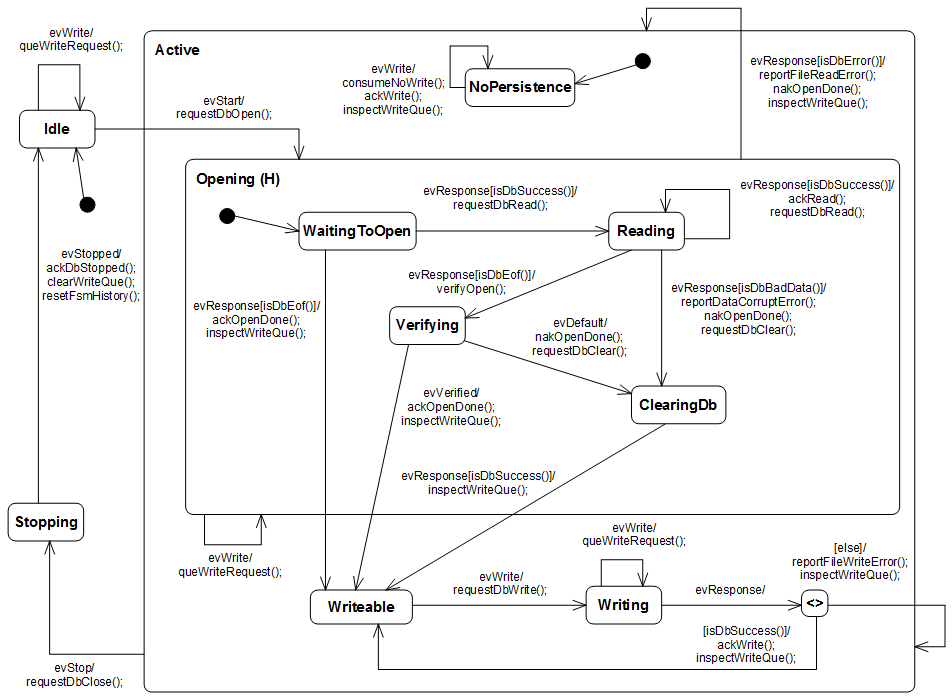
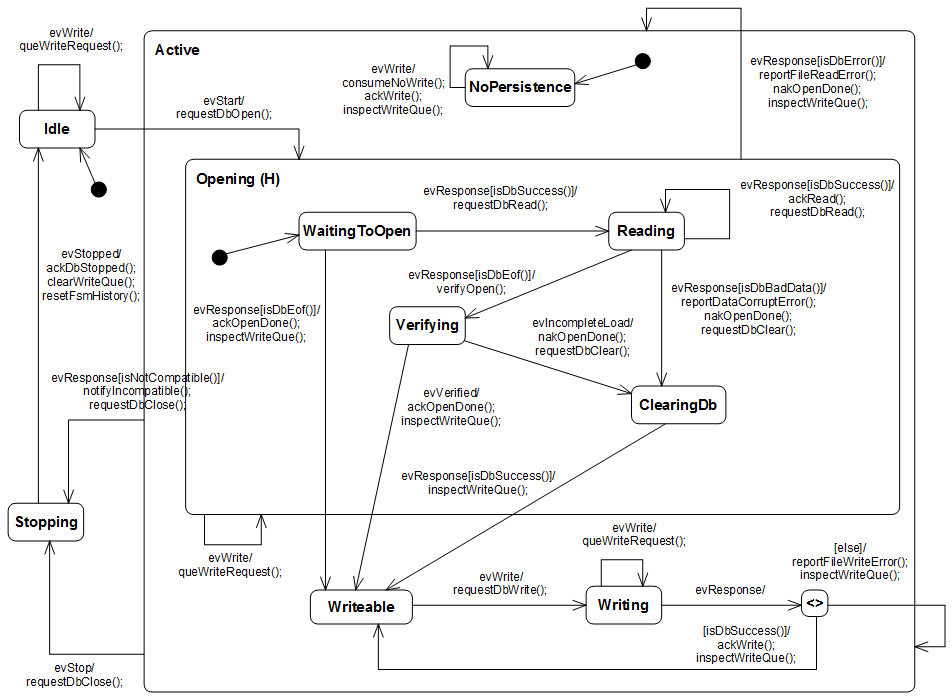
WIP - more tweaking to the Record FSM (still need unittests)

diff --git a/src/Rte/Db/Record/Fsm_.cpp b/src/Rte/Db/Record/Fsm_.cpp
@@ -39,10 +39,10 @@ namespace Rte { namespace Db { namespace Record  {
 
     /* Event names */
     const char events[]=
-        "evWrite\0evStop\0evVerified\0evResponse\0evDefault\0evStopped\0evStart\0NO_MSG\0";
+        "evWrite\0evStop\0evVerified\0evResponse\0evIncompleteLoad\0evStopped\0evStart\0NO_MSG\0";
 
     const unsigned short evt_idx[]={
-        0,8,15,26,37,47,57,65};
+        0,8,15,26,37,54,64,72};
 
     const char* Fsm::getNameByState(unsigned short state) const {
         return states+state_idx[state];
@@ -319,7 +319,7 @@ namespace Rte { namespace Db { namespace Record  {
                             break; /* end of case ClearingDb  */
 
                             case Verifying:
-                                if(msg==evDefault){
+                                if(msg==evIncompleteLoad){
                                     /* Transition from Verifying to ClearingDb */
                                     evConsumed=1;
 
@@ -445,7 +445,27 @@ namespace Rte { namespace Db { namespace Record  {
                 /* Check if event was already processed  */
                 if(evConsumed==0){
 
-                    if(msg==evStop){
+                    if(msg==evResponse){
+                        if(isNotCompatible()){
+                            /* Transition from Active to Stopping */
+                            evConsumed=1;
+                        
+                            if(stateVars.stateVarActive== Opening){
+                                
+                            }
+
+                            /* Action code for transition  */
+                            notifyIncompatible();
+                            requestDbClose();
+
+
+                            /* adjust state variables  */
+                            stateVarsCopy.stateVar = Stopping;
+                            FsmTraceEvent(12);
+                        }else{
+                            /* Intentionally left blank */
+                        } /*end of event selection */
+                    }else if(msg==evStop){
                         /* Transition from Active to Stopping */
                         evConsumed=1;
                         

diff --git a/src/Rte/Db/Record/Core.cpp b/src/Rte/Db/Record/Core.cpp
@@ -251,6 +251,13 @@ void Core::nakOpenDone() throw()
     m_setLayer.notifyOpenFailed();
     }
 
+void Core::notifyIncompatible() throw()
+    {
+    CPL_SYSTEM_TRACE_MSG( SECT_, ("Core::notifyIncompatible") );
+    m_logger.warning( "Rte::Db::Record::Core::notifyIncompatible - Incompatible schema, DB closing..." );
+    m_setLayer.notifyIncompatible();
+    }
+
 void Core::ackDbStopped() throw()
     {
     CPL_SYSTEM_TRACE_MSG( SECT_, ("Core::ackDbStopped") );
@@ -302,7 +309,7 @@ void Core::verifyOpen() throw()
         }
     else
         {
-        generateInternalEvent( evDefault ); 
+        generateInternalEvent( evIncompleteLoad ); 
         }
     }
 
@@ -326,7 +333,12 @@ bool Core::isDbBadData() throw()
 
 bool Core::isDbError() throw()
     {
-    return m_dbResult == Rte::Db::Chunk::Request::eERR_FILEIO || m_dbResult == Rte::Db::Chunk::Request::eERR_WRONG_FILE || m_dbResult == Rte::Db::Chunk::Request::eERR_OPEN;
+    return m_dbResult == Rte::Db::Chunk::Request::eERR_FILEIO || m_dbResult == Rte::Db::Chunk::Request::eERR_NOT_A_DB_FILE || m_dbResult == Rte::Db::Chunk::Request::eERR_OPEN;
+    }
+
+bool Core::isNotCompatible() throw()
+    {
+    return m_dbResult == Rte::Db::Chunk::Request::eWRONG_SCHEMA;
     }
 
 
@@ -334,10 +346,10 @@ bool Core::isDbError() throw()
 void Core::sendEvent( FSM_EVENT_T msg )
     {
     // I have an 'event queue' so that if an action generates an event the event 
-    // can be queued until current event finishes processing. The event queue
-    // really isn't a queue - just a single variable - since by design of the
-    // FSM at most only one event can be 'self generated' on any given event
-    // processing.
+    // can be queued until current event finishes processing, i.e. enforce run-to-
+    // completion semantics on event processing. The event queue really isn't a 
+    // queue - just a single variable - since by design of the FSM at most only 
+    // one event can be 'self generated' on any given event processing.
     do 
         {
         m_queuedEvent = FSM_NO_MSG;

diff --git a/src/Rte/Db/Chunk/Server.cpp b/src/Rte/Db/Chunk/Server.cpp
@@ -117,7 +117,7 @@ void Server::request( ReadMsg& msg )
     if ( operation.m_handlePtr->m_len > operation.m_bufferMaxSize - Rte::Db::eCCRC_SIZE )
         {
         CPL_SYSTEM_TRACE_MSG( SECT_, ("Server::request( ReadMsg ) - eERR_FILEIO -  Chunk Length greater than buffer (clen=%u, bufSize=%u)", operation.m_handlePtr->m_len, operation.m_bufferMaxSize - Rte::Db::eCCRC_SIZE) );
-        operation.m_result = eERR_WRONG_FILE;
+        operation.m_result = eERR_NOT_A_DB_FILE;
         msg.returnToSender(); 
         return;
         }
@@ -357,7 +357,7 @@ bool Server::checkSignature( Request::Result_T& result, uint8_t* bufferPtr, uint
         }
     if ( clen > bufferMaxSize - Rte::Db::eCCRC_SIZE )
         {
-        result = eERR_WRONG_FILE;
+        result = eERR_NOT_A_DB_FILE;
         return false;
         }
             
@@ -374,7 +374,7 @@ bool Server::checkSignature( Request::Result_T& result, uint8_t* bufferPtr, uint
     m_crc.accumulate( bufferPtr, clen + Rte::Db::eCCRC_SIZE );
     if ( !m_crc.isOkay() )
         {
-        result = eERR_WRONG_FILE;
+        result = eERR_NOT_A_DB_FILE;
         return false;
         }
 
@@ -383,14 +383,14 @@ bool Server::checkSignature( Request::Result_T& result, uint8_t* bufferPtr, uint
     memcpy( &nlen, bufferPtr, Rte::Db::eNLEN_SIZE );
     if ( clen != (uint32_t)(nlen + Rte::Db::eNLEN_SIZE) || nlen != strlen(m_signature) )
         {
-        result = eERR_WRONG_FILE;
+        result = eWRONG_SCHEMA;
         return false;
         }
 
     // Check the signature
     if ( strncmp((const char*)(bufferPtr + Rte::Db::eNLEN_SIZE), m_signature, nlen) != 0 )
         {
-        result = eERR_WRONG_FILE;
+        result = eWRONG_SCHEMA;
         return false;
         }
 
@@ -402,3 +402,4 @@ bool Server::checkSignature( Request::Result_T& result, uint8_t* bufferPtr, uint
 
     return true;
     }
+

diff --git a/src/Rte/Db/Record/Handler.h b/src/Rte/Db/Record/Handler.h
@@ -52,16 +52,28 @@ public:
 
         /** Notification (to the upper layer) that an error occurred during 
             the load of the records and loading process has been stopped/
-            aborted. It is the responsibility of the upper layer to default the 
-            application's records when this method is called.
+            aborted. The data in any of the record(s) succesfully opened are
+            still validate at this point.  It is the application's 
+            responsibility to decide what actions (if any) it needs to take 
+            for the record(s) that loaded succesfully.
          */
         virtual void notifyOpenFailed(void) = 0;
 
     
+        /** Notification (to the upper layer) that the DB file that was open
+            does NOT have a compatible schema identifier.  The Chunk layer will 
+            internally request to the close the DB when this happens. The upper 
+            layer will receive a notifyStopped() call once the DB has been 
+            succesfully closed.
+         */
+        virtual void notifyIncompatible(void) = 0;
+
+
         /** This method allows the upper layer to inform the Record layer
             if there was a clean/succesful load of all the records from
             non-volatile storage.  If this method returns false, then the
-            record layer will clear non-volatile storage.  
+            record layer will clear non-volatile storage (so that ALL of
+            records can be re-written 'cleanly'). 
          */
         virtual bool isCleanLoad(void) = 0;
         

diff --git a/src/Rte/Db/Record/Fsm_.h b/src/Rte/Db/Record/Fsm_.h
@@ -52,7 +52,8 @@ ranksep=.4;
 "Idle"->"Idle"[label=<evWrite / <br ALIGN="LEFT"/>queWriteRequest();<br ALIGN="LEFT"/>>  color=black, fontname=arial, fontcolor=black]; //Idle Idle
 "Writing"->"Writing"[label=<evWrite / <br ALIGN="LEFT"/>queWriteRequest();<br ALIGN="LEFT"/>>  color=black, fontname=arial, fontcolor=black]; //Writing Writing
 "defaultOpening"->"WaitingToOpen"[label=<  > style=dotted];
-"Verifying"->"ClearingDb"[label=<evDefault / <br ALIGN="LEFT"/>nakOpenDone();<br ALIGN="LEFT"/>requestDbClear();<br ALIGN="LEFT"/>>  color=black, fontname=arial, fontcolor=black]; //Verifying ClearingDb
+"Verifying"->"ClearingDb"[label=<evIncompleteLoad / <br ALIGN="LEFT"/>nakOpenDone();<br ALIGN="LEFT"/>requestDbClear();<br ALIGN="LEFT"/>>  color=black, fontname=arial, fontcolor=black]; //Verifying ClearingDb
+"defaultActive"->"Stopping"[labeldistance=2.0, headlabel=<evResponse<br ALIGN="LEFT"/>[isNotCompatible()] / <br ALIGN="LEFT"/>notifyIncompatible();<br ALIGN="LEFT"/>requestDbC...<br ALIGN="LEFT"/>>  color=black, fontname=arial, fontcolor=black ltail=clusterActive];//Active Stopping
 "Idle"[shape=record, color=black, fontname=arial, style=rounded, label=<{<B>Idle</B><br ALIGN="LEFT"/>|<br ALIGN="LEFT"/>}>];subgraph "clusterActive"{fontname=arial; fontsize=8
 color=black; style="rounded";
 label=<Active<br ALIGN="LEFT"/><br ALIGN="LEFT"/>>;

diff --git a/src/Rte/Db/Chunk/Request.cpp b/src/Rte/Db/Chunk/Request.cpp
@@ -20,12 +20,13 @@ const char* Request::resultToString( Result_T result ) throw()
     {
     switch( result )
         {
-        case eSUCCESS:        return "eSUCCESS";       
-        case eEOF:            return "eEOF";           
-        case eCORRUPT_DATA:   return "eCORRUPT_DATA";  
-        case eERR_OPEN:       return "eERR_OPEN";
-        case eERR_FILEIO:     return "eERR_FILEIO";    
-        case eERR_WRONG_FILE: return "eERR_WRONG_FILE";
+        case eSUCCESS:              return "eSUCCESS";       
+        case eEOF:                  return "eEOF";           
+        case eCORRUPT_DATA:         return "eCORRUPT_DATA";  
+        case eWRONG_SCHEMA:         return "eWRONG_SCHEMA";
+        case eERR_OPEN:             return "eERR_OPEN";
+        case eERR_FILEIO:           return "eERR_FILEIO";    
+        case eERR_NOT_A_DB_FILE:    return "eERR_NOT_A_DB_FILE";
         }            
     return "unknown";
     }

diff --git a/src/Rte/Db/Record/ErrorClient.h b/src/Rte/Db/Record/ErrorClient.h
@@ -30,8 +30,8 @@ class ErrorClient
 public:
     /** This method reports that a 'File' error occured when trying to load
         the data from the database.  A file error can be a error in accessing
-        the non-volatle storage media or the file being read is not the 
-        specified DB file.
+        the non-volatle storage media or the file being read is not a valid 
+        DB file.
      */
     virtual void databaseFileOpenError( Rte::Db::Chunk::Request::Result_T errorCode ) = 0;
      
@@ -52,7 +52,7 @@ public:
      */
     virtual void databaseOpened( void ) = 0;
 
-    /** This method reports that the database has been closed, i.e. 'clear'
+    /** This method reports that the database has been closed, i.e. 'clears'
         any previously reported errors.
      */
     virtual void databaseClosed( void ) = 0;

diff --git a/src/Rte/Db/Record/FsmContext_.h b/src/Rte/Db/Record/FsmContext_.h
@@ -1,5 +1,5 @@
-#ifndef Rte_Db_Record_FsmContext__h_
-#define Rte_Db_Record_FsmContext__h_
+#ifndef Rte_Db_Record_FsmContext_x_h_
+#define Rte_Db_Record_FsmContext_x_h_
 /*-----------------------------------------------------------------------------
 * This file is part of the Colony.Core Project.  The Colony.Core Project is an
 * open source project with a BSD type of licensing agreement.  See the license
@@ -50,6 +50,9 @@ public:
     virtual void nakOpenDone() throw() = 0;
 
     /// Action
+    virtual void notifyIncompatible() throw() = 0;
+
+    /// Action
     virtual void queWriteRequest() throw() = 0;
 
     /// Action
@@ -95,6 +98,9 @@ public:
 
     /// Guard
     virtual bool isDbSuccess() throw() = 0;
+
+    /// Guard
+    virtual bool isNotCompatible() throw() = 0;
 
 
 public:

diff --git a/src/Rte/Db/Chunk/Request.h b/src/Rte/Db/Chunk/Request.h
@@ -41,9 +41,10 @@ public:
     enum Result_T { eSUCCESS,             //!< Request operation succeeded
                     eEOF,                 //!< EOF was reached
                     eCORRUPT_DATA,        //!< The chunk read did not pass its CRC check
+                    eWRONG_SCHEMA,        //!< The specified DB file's signature (schema identifier) does not match the expected signature
                     eERR_FILEIO,          //!< A file operation failed and the operation was aborted
                     eERR_OPEN,            //!< Unable to open the specified DB file
-                    eERR_WRONG_FILE       //!< The specified DB file is NOT a DB file
+                    eERR_NOT_A_DB_FILE    //!< The specified DB file is NOT a DB file
                   };
 
 

diff --git a/src/Rte/Db/Record/Core.h b/src/Rte/Db/Record/Core.h
@@ -154,6 +154,9 @@ protected:
     void nakOpenDone() throw();
 
     /// See Rte::Db::Record::FsmContext_
+    void notifyIncompatible() throw();
+
+    /// See Rte::Db::Record::FsmContext_
     void queWriteRequest() throw();
 
     /// See Rte::Db::Record::FsmContext_
@@ -200,6 +203,8 @@ protected:
     /// See Rte::Db::Record::FsmContext_
     bool isDbSuccess() throw();
 
+    /// See Rte::Db::Record::FsmContext_
+    bool isNotCompatible() throw();
 
 
 protected:

diff --git a/src/Rte/Db/Record/Fsm_trace_.h b/src/Rte/Db/Record/Fsm_trace_.h
@@ -36,12 +36,13 @@ const char* const FsmTraceEvents[] = {
     "evStopped",
     "",
     "evVerified",
-    "evDefault",
+    "evIncompleteLoad",
     "evResponse[isDbSuccess()]",
     "evResponse[else]",
     "evResponse[isDbError()]",
     "evResponse[isDbBadData()]",
-    "evResponse[isDbEof()]"
+    "evResponse[isDbEof()]",
+    "evResponse[isNotCompatible()]"
 };
 
 

diff --git a/src/Rte/Db/Record/_0test/main.cpp b/src/Rte/Db/Record/_0test/main.cpp
@@ -194,6 +194,12 @@ public:
         }
 
     ///
+    void notifyIncompatible(void) 
+        {
+        CPL_SYSTEM_TRACE_MSG(SECT_, ("SetHandler::notifyIncompatible.count=%d", m_count));
+        }
+
+    ///
     bool isCleanLoad(void)
         {
         return m_count == 0;
